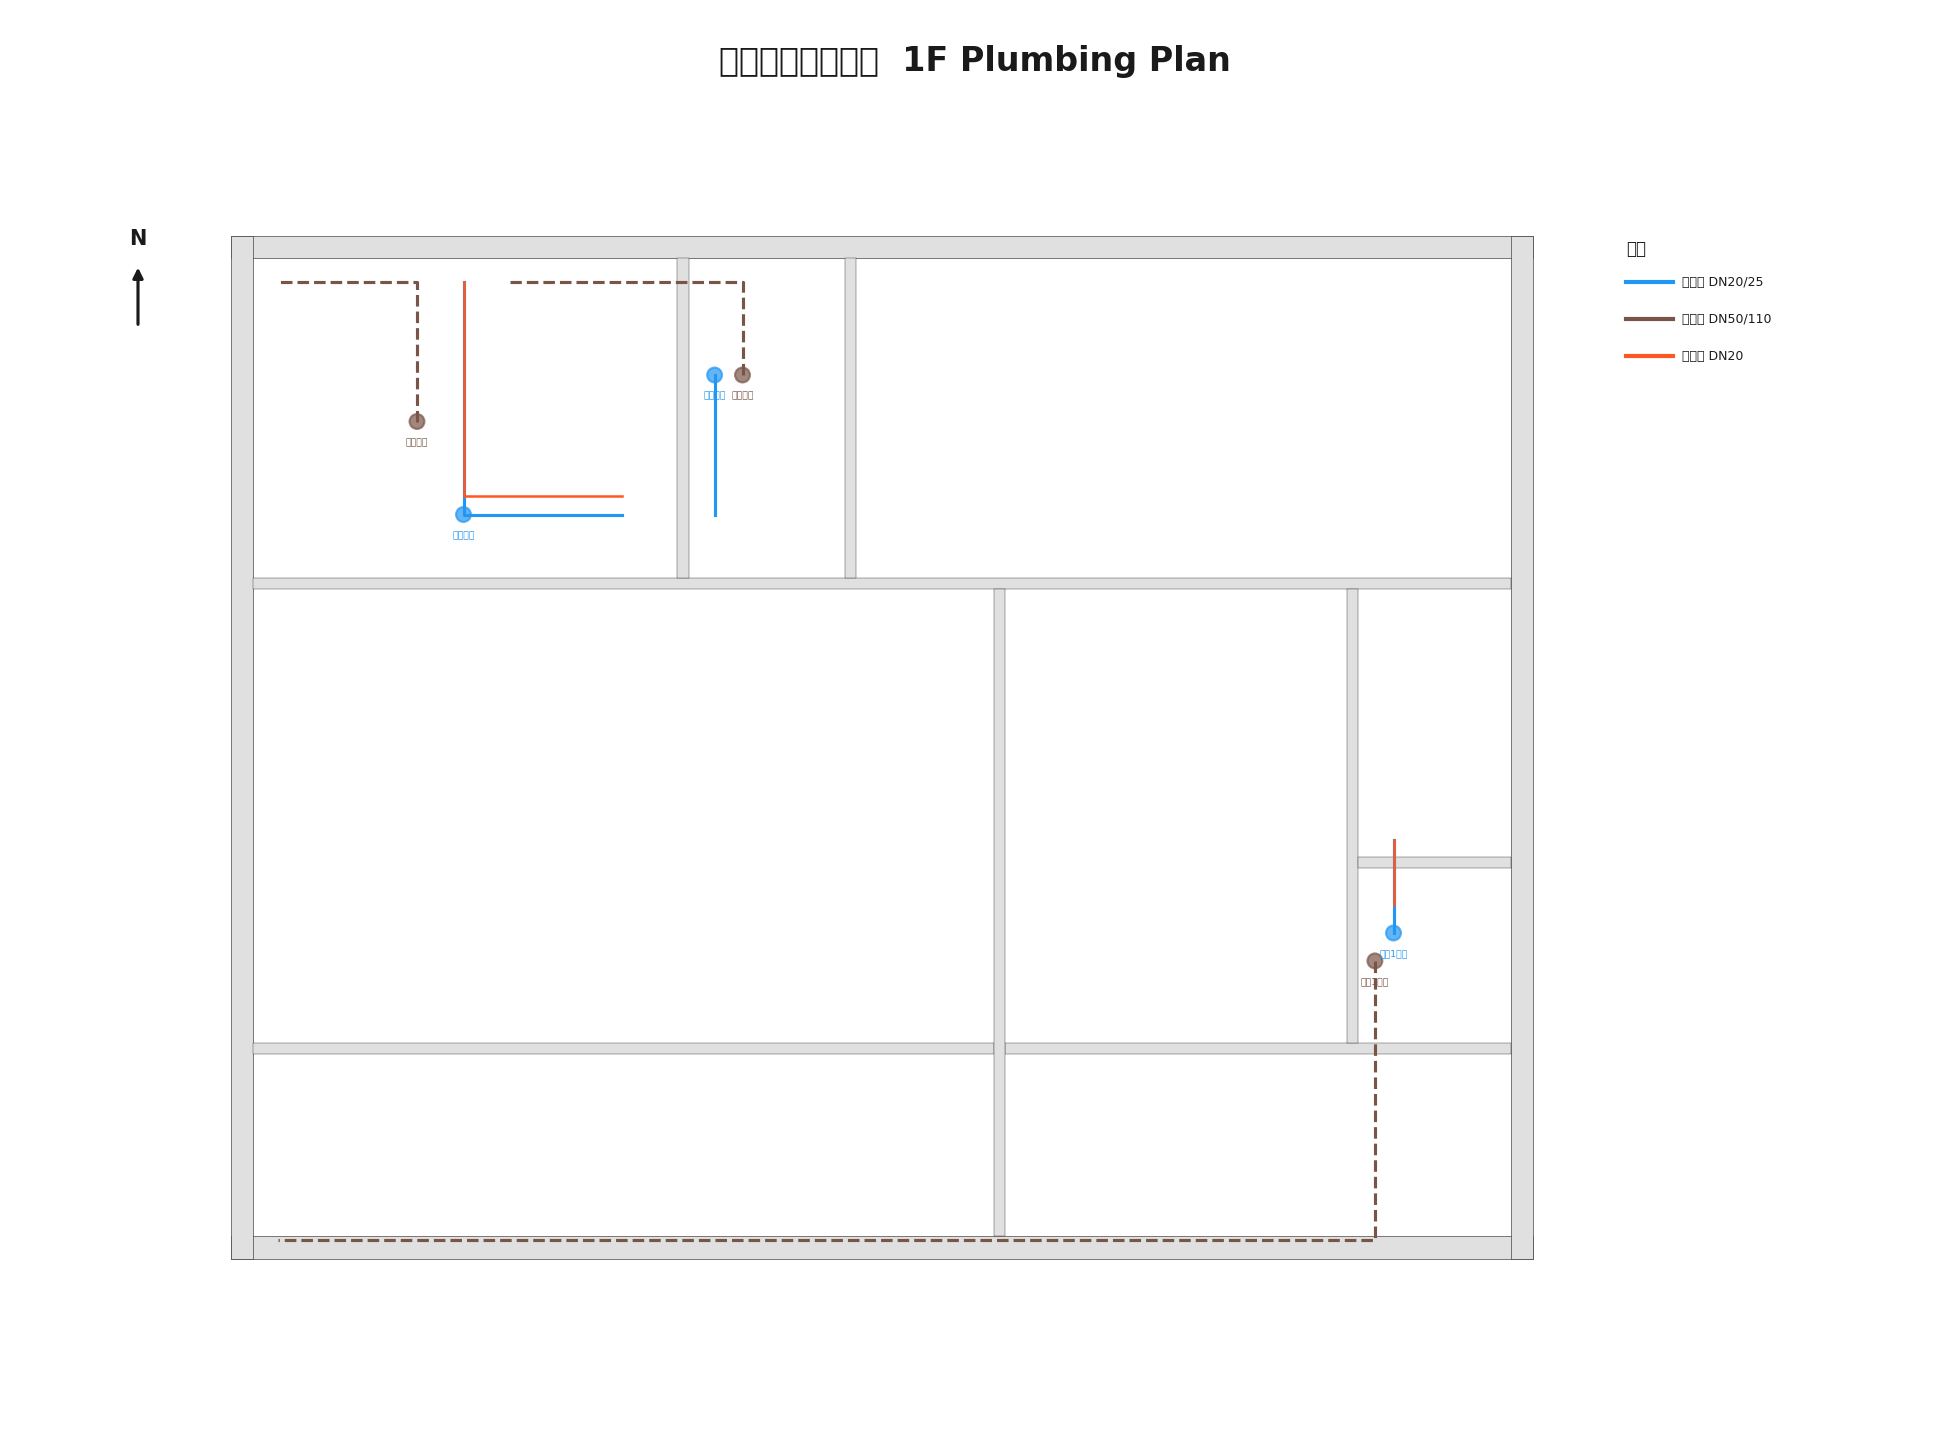
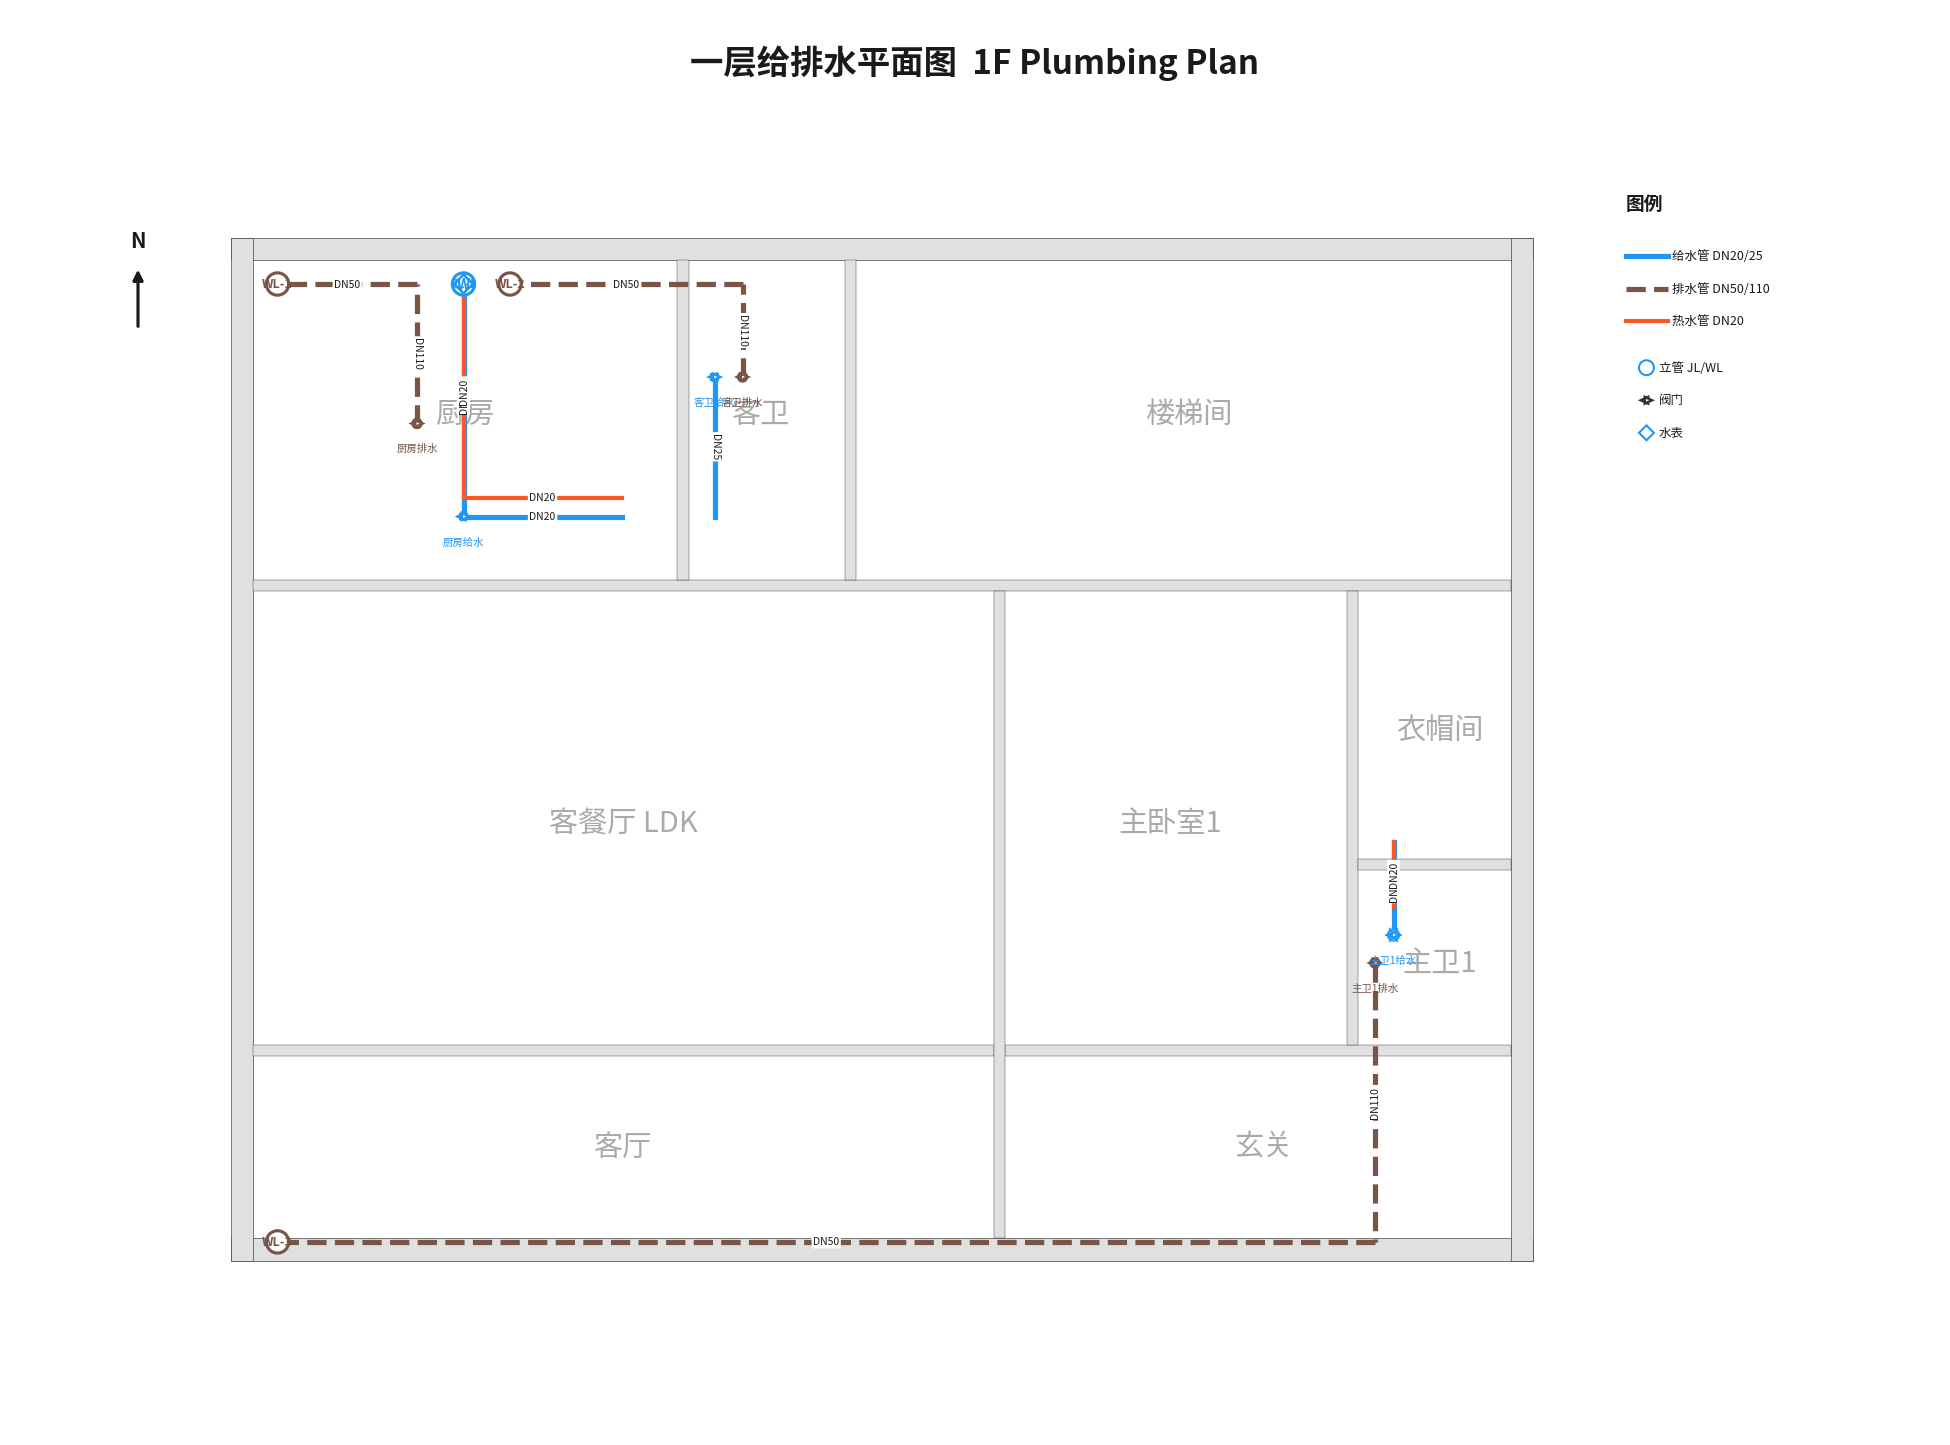
feat: enhance font management and update image generation in generate_all.py
Added support for CJK fonts in the generate_all.py script to improve text rendering in generated diagrams. Updated the font configuration to include additional font styles and ensured fallback options are available. Additionally, modified the image generation logic to streamline the output process, enhancing overall usability and visual consistency in the generated files.

diff --git a/.cursor/skills/house-floor-plan/scripts/generate_all.py b/.cursor/skills/house-floor-plan/scripts/generate_all.py
@@ -33,9 +33,19 @@ from building_config import (
 
 W_m = BW_M; D_m = BD_M
 
+import matplotlib.font_manager as fm
+_CJK_FONTS_ADDED = False
+for _p in ["/usr/share/fonts/opentype/noto/NotoSansCJK-Regular.ttc",
+           "/usr/share/fonts/opentype/noto/NotoSansCJK-Bold.ttc",
+           "/usr/share/fonts/opentype/noto/NotoSansCJK-Medium.ttc",
+           "/usr/share/fonts/opentype/noto/NotoSansCJK-Light.ttc",
+           "/usr/share/fonts/opentype/noto/NotoSansCJK-Black.ttc"]:
+    if os.path.exists(_p):
+        fm.fontManager.addfont(_p)
+        _CJK_FONTS_ADDED = True
 plt.rcParams["font.sans-serif"] = [
-    "Noto Sans CJK SC",        # Linux (Ubuntu/Debian)
-    "Noto Sans SC",             # Alternate Noto name
+    "Noto Sans CJK JP",        # TTC default index (covers CJK SC glyphs too)
+    "Noto Sans CJK SC",        # Linux
     "WenQuanYi Micro Hei",     # Linux fallback
     "PingFang SC",              # macOS
     "Microsoft YaHei",          # Windows
@@ -43,14 +53,6 @@ plt.rcParams["font.sans-serif"] = [
     "Arial Unicode MS",         # Cross-platform
 ]
 plt.rcParams["axes.unicode_minus"] = False
-import matplotlib.font_manager as fm
-_CJK_FONT_PATH = None
-for _p in ["/usr/share/fonts/opentype/noto/NotoSansCJK-Regular.ttc",
-           "/usr/share/fonts/opentype/noto/NotoSansCJK-Bold.ttc"]:
-    if os.path.exists(_p):
-        _CJK_FONT_PATH = _p
-        fm.fontManager.addfont(_p)
-        break
 
 BASE = os.path.join(os.getcwd(), "图纸")
 IMG_DIR = os.path.join(os.getcwd(), "docs", "images")
